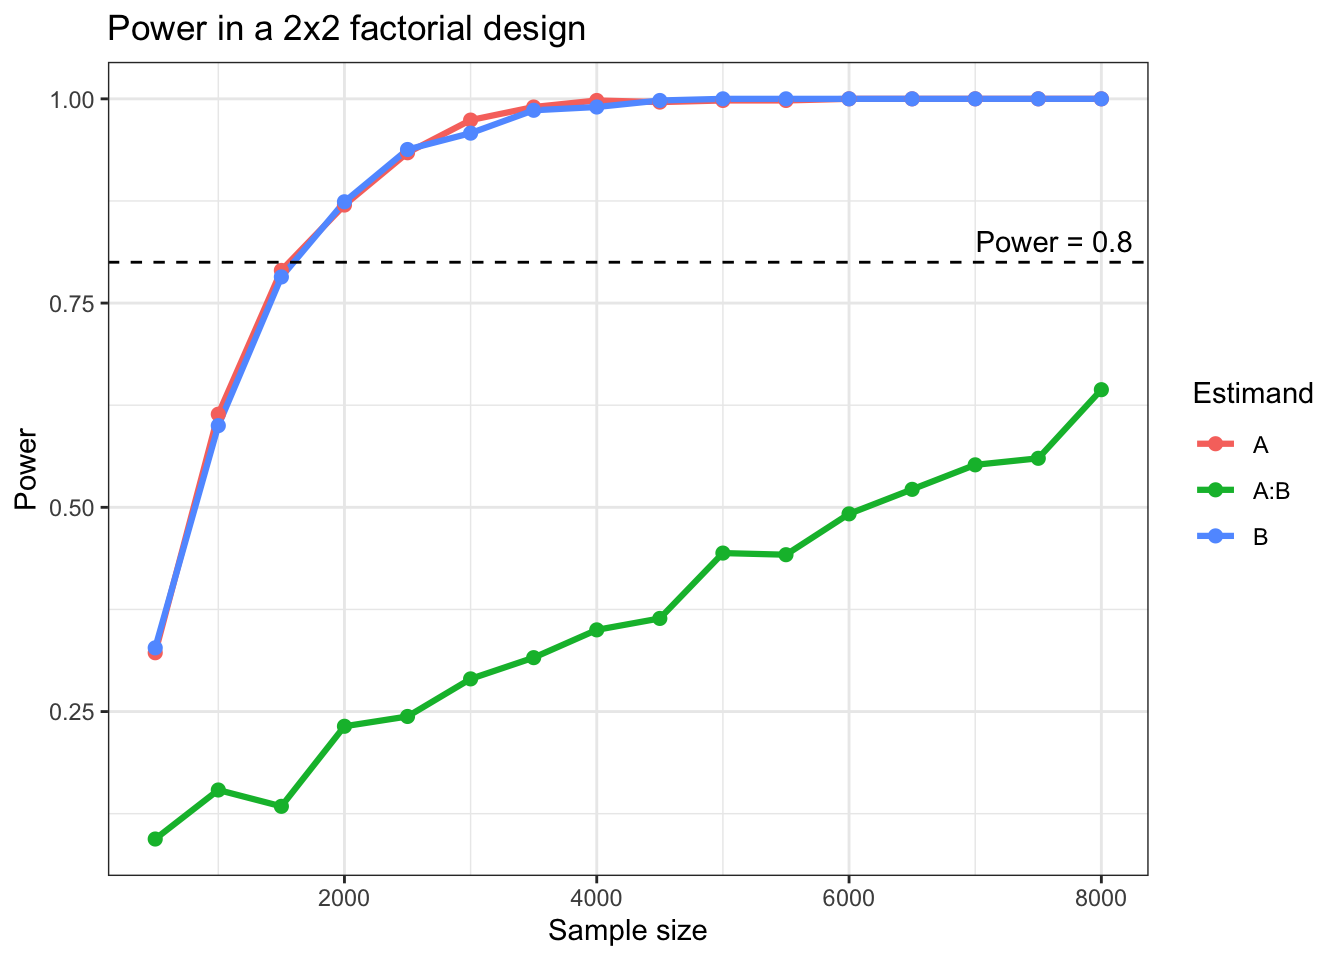
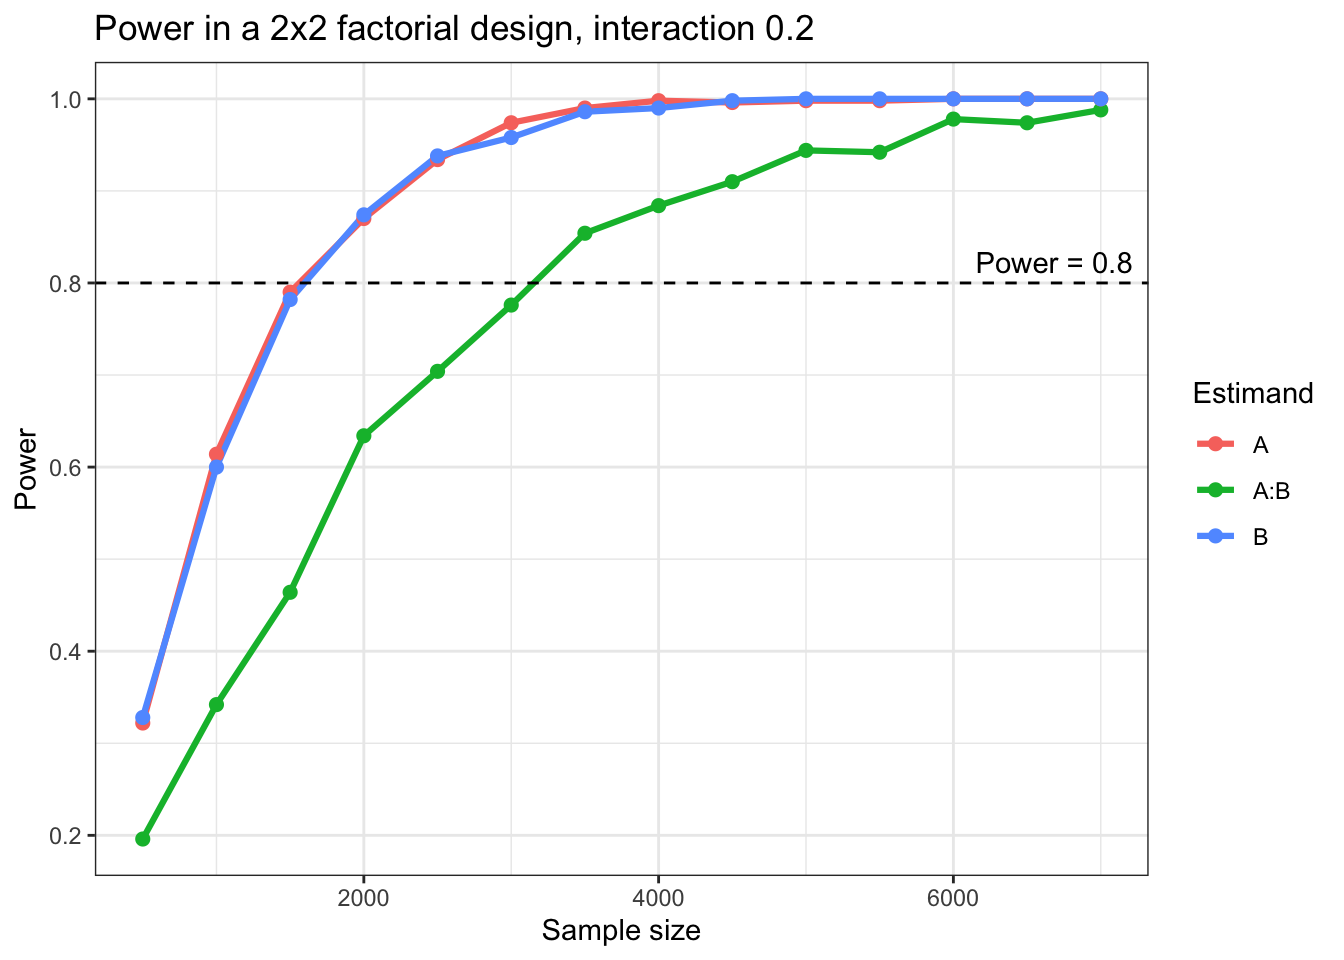
update lab09

diff --git a/lab09/lab09_slides.html b/lab09/lab09_slides.html
@@ -668,7 +668,7 @@ Parameters saved in design environments:
 <span id="cb34-3"><a href="#cb34-3" aria-hidden="true" tabindex="-1"></a>  <span class="fu">geom_line</span>(<span class="at">linewidth =</span> <span class="fl">1.1</span>) <span class="sc">+</span></span>
 <span id="cb34-4"><a href="#cb34-4" aria-hidden="true" tabindex="-1"></a>  <span class="fu">geom_point</span>(<span class="at">size =</span> <span class="dv">2</span>) <span class="sc">+</span></span>
 <span id="cb34-5"><a href="#cb34-5" aria-hidden="true" tabindex="-1"></a>  <span class="fu">labs</span>(</span>
-<span id="cb34-6"><a href="#cb34-6" aria-hidden="true" tabindex="-1"></a>    <span class="at">title =</span> <span class="st">"Power in a 2x2 factorial design"</span>,</span>
+<span id="cb34-6"><a href="#cb34-6" aria-hidden="true" tabindex="-1"></a>    <span class="at">title =</span> <span class="st">"Power in a 2x2 factorial design, interaction 0.2"</span>,</span>
 <span id="cb34-7"><a href="#cb34-7" aria-hidden="true" tabindex="-1"></a>    <span class="at">x =</span> <span class="st">"Sample size"</span>,</span>
 <span id="cb34-8"><a href="#cb34-8" aria-hidden="true" tabindex="-1"></a>    <span class="at">y =</span> <span class="st">"Power"</span>,</span>
 <span id="cb34-9"><a href="#cb34-9" aria-hidden="true" tabindex="-1"></a>    <span class="at">color =</span> <span class="st">"Estimand"</span></span>
